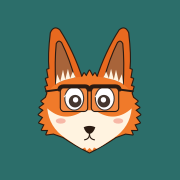
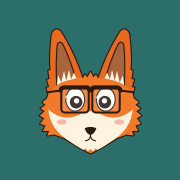
Thicker rims on the fox's glasses
Lens rims go from 2.5 to 4.5 (the browline stays at 9) in FoxIcon and
icon.svg. The app icons and favicon are redrawn from the updated
drawing at the same size and position.

Changed region(s): [[0.1944, 0.1389, 0.8056, 0.8611]]

diff --git a/frontend/components/shared/FoxIcon.tsx b/frontend/components/shared/FoxIcon.tsx
@@ -53,8 +53,8 @@ export function FoxIcon({ size = 40, className, style }: FoxIconProps) {
       <path d="M340 271 Q340 282 351 284" fill="none" stroke="#2B1B12" strokeWidth="2.5" strokeLinecap="round"/>
       {/* Glasses (browline) */}
       <g fill="none" stroke="#2B1B12" strokeLinecap="round" strokeLinejoin="round">
-        <rect x="275" y="167" width="61" height="54" rx="8" fill="#FFFFFF" fillOpacity="0.12" strokeWidth="2.5"/>
-        <rect x="344" y="167" width="61" height="54" rx="8" fill="#FFFFFF" fillOpacity="0.12" strokeWidth="2.5"/>
+        <rect x="275" y="167" width="61" height="54" rx="8" fill="#FFFFFF" fillOpacity="0.12" strokeWidth="4.5"/>
+        <rect x="344" y="167" width="61" height="54" rx="8" fill="#FFFFFF" fillOpacity="0.12" strokeWidth="4.5"/>
         <path d="M273 172 Q274 165 283 165 L330 165 Q338 165 338 172" strokeWidth="9"/>
         <path d="M342 172 Q342 165 350 165 L397 165 Q406 165 407 172" strokeWidth="9"/>
         <path d="M338 170 Q340 166 342 170" strokeWidth="5"/>
